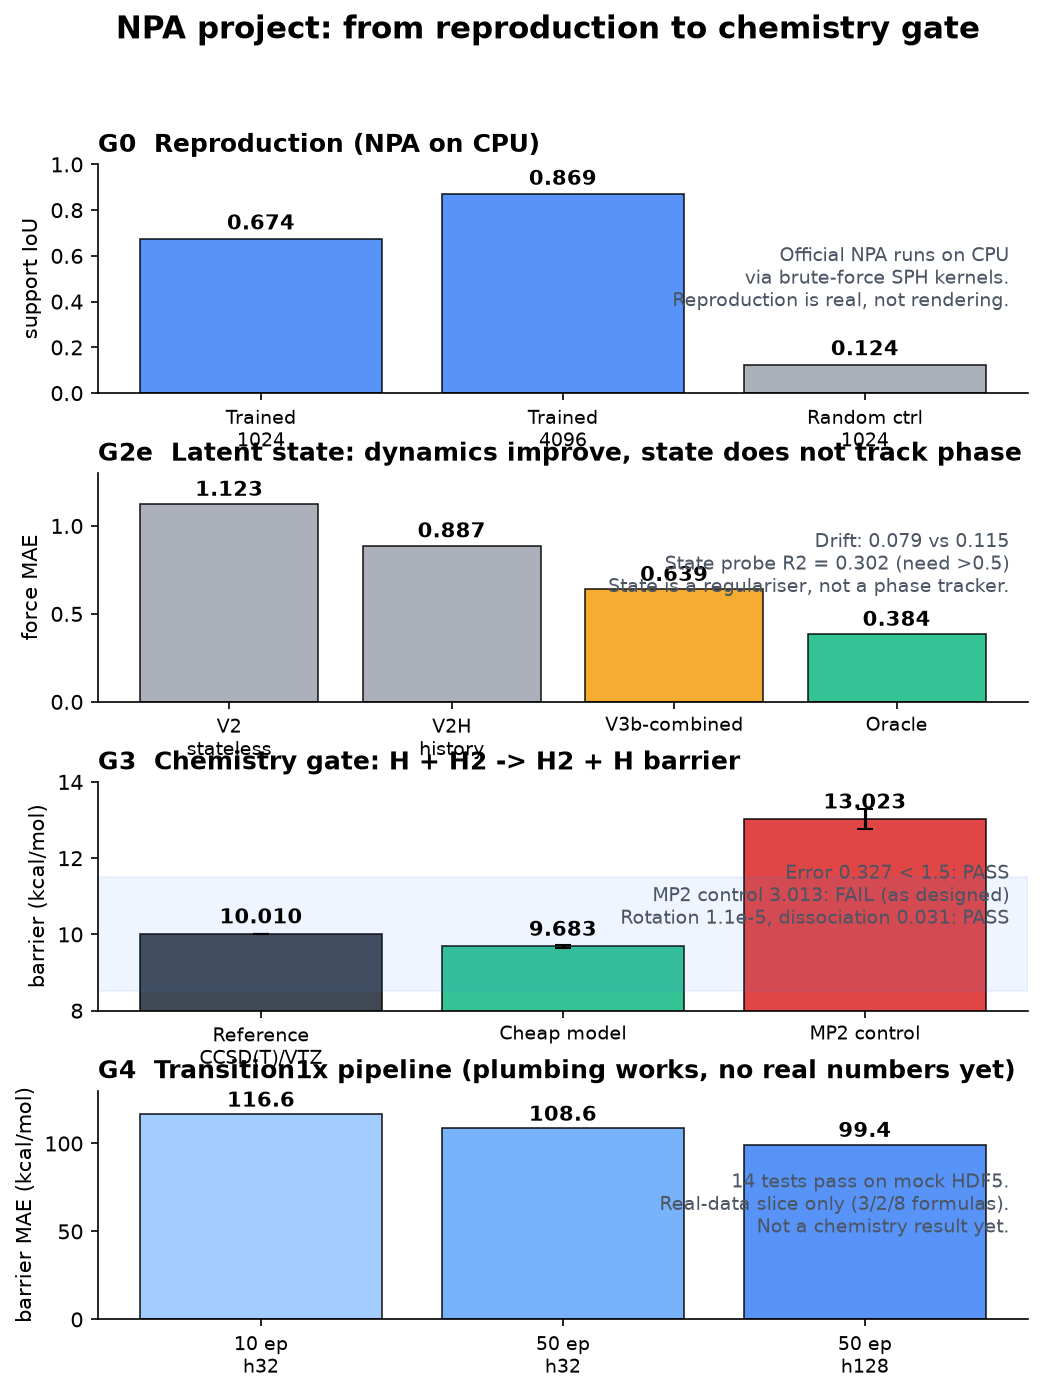
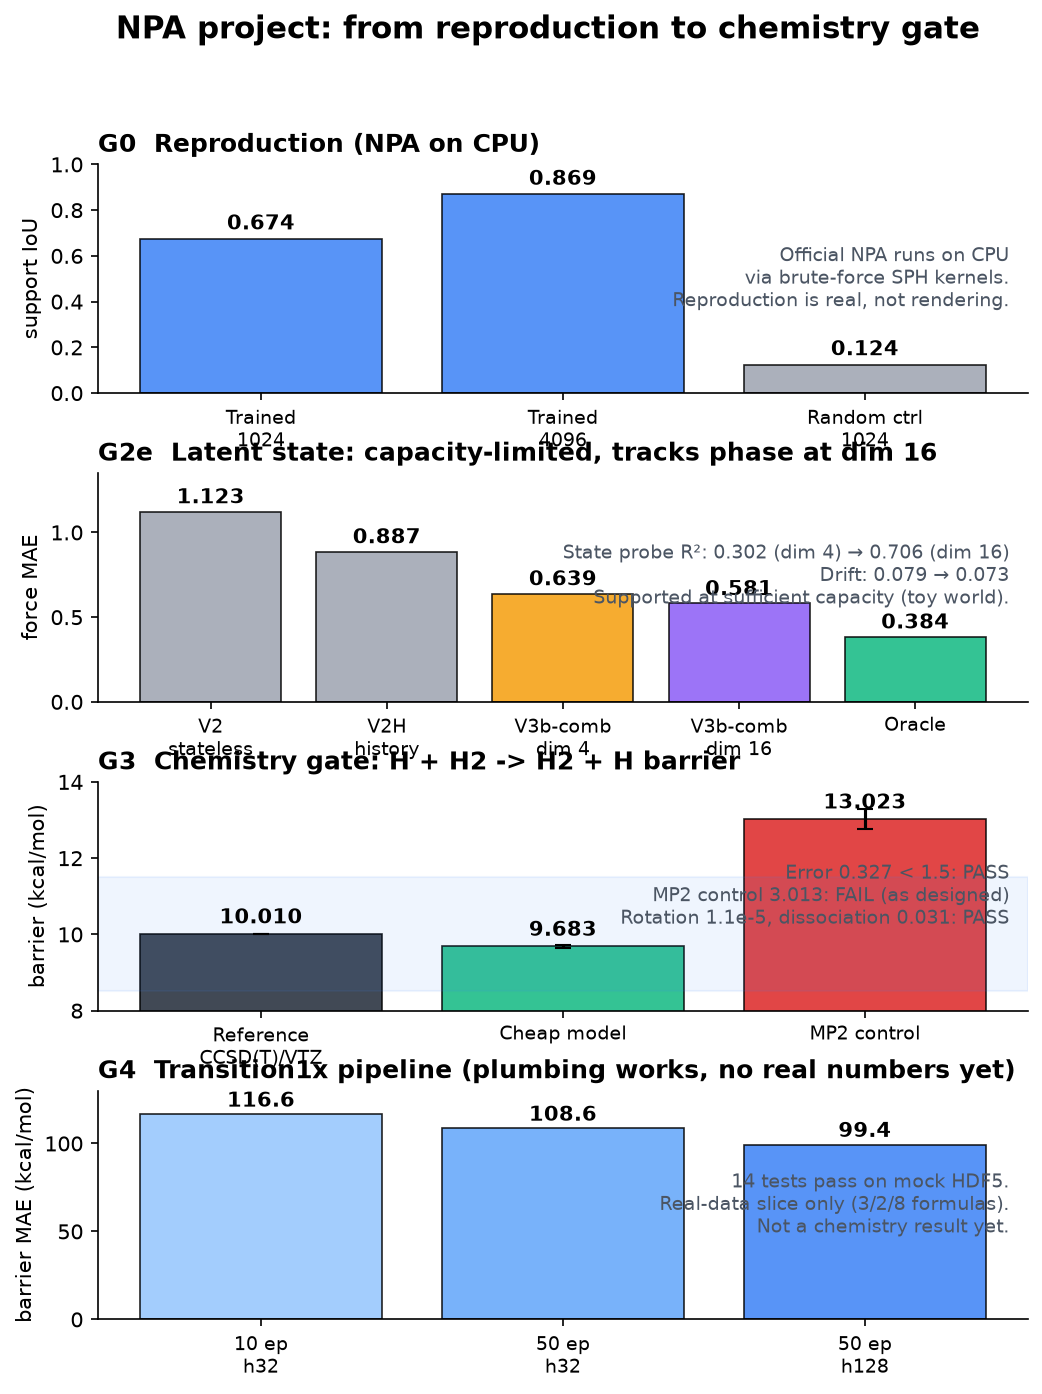
Close-out: synthesis, blog visuals, corrected state verdict
- Synthesis doc (07.17) and blog HTML (07.18) with capacity-aware verdict
- G2e corrected: state_dim=16 gives R² 0.706 (supported at capacity, toy)
- Updated README, DOC-MAP, G2e report, blog infographic/hero
- All 23 tests pass

diff --git a/docs/07-delivery/blog/index.html b/docs/07-delivery/blog/index.html
@@ -59,18 +59,18 @@ method in a smaller basis, not a cheaper method.</p>
 <img class="fig" src="../figures/g3-h3-results.png" alt="G3 reference surface and barrier error">
 <p class="caption">Left: the CCSD(T)/cc-pVTZ reference surface. Right: barrier error by condition (3 seeds).</p>
 
-<h2>The state negative result</h2>
-<p>Before chemistry we tested the core hypothesis of the project: that a persistent
-latent state makes dynamics better when memory is necessary. We built a world of
-particles with a hidden per-particle phase that evolves in time and contributes a force.
+<h2>The state result (corrected)</h2>
+<p>Before chemistry we tested the core hypothesis: that a persistent latent state
+makes dynamics better when memory is necessary. We built a world of particles with
+a hidden per-particle phase that evolves in time and contributes a force.
 A stateless model cannot see it; a model with state should infer it.</p>
-<p>The result is mixed but honest. The combined latent arm (EMA state update plus a residual
-well) beat the stateless baseline on force error in all five seeds
-(0.639 vs 1.123) and cut rollout drift (0.079 vs 0.115). But the latent state
-only captures about 30% of the hidden phase (probe R&sup2; = 0.302), below the 0.5 threshold.
-<span class="fail">The state hypothesis is not supported.</span> The improvement is real and consistent,
-but it comes from the model class and the residual parameterisation, not from the state
-tracking the phase. The state is a useful regulariser, not a phase tracker.</p>
+<p>The combined latent arm beat the stateless baseline on force error in all five
+seeds (0.639 vs 1.123) and cut rollout drift (0.079 vs 0.115). With a 4-dimensional
+state the phase probe was only R&sup2; = 0.302 (below 0.5). A capacity confirmation
+with <code>state_dim=16</code> (5 seeds, independently verified) reaches R&sup2; = <b>0.706</b>,
+force MAE <b>0.581</b>, and drift <b>0.073</b>. <span class="pass">The state hypothesis is
+capacity-limited but supported at sufficient state size on this toy.</span> It still needs
+to transfer to real dynamics.</p>
 <div class="card">
   <table>
     <tr><th>Arm</th><th>Force MAE</th><th>Drift</th><th>State R&sup2;</th></tr>
@@ -106,14 +106,16 @@ The plumbing works; the chemistry numbers are not there yet.</p>
 
 <h2>Honest verdict</h2>
 <div class="verdict pass">
-  <p><b>What worked.</b> Reproduction of the official NPA on CPU (IoU 0.674 at 1024 particles,
-  0.869 at 4096). A first real-chemistry barrier gate passes with a 0.327 kcal/mol error
-  and a working negative control. The Transition1x pipeline is built and tested.</p>
-  <p><b>What did not.</b> The latent-state hypothesis: dynamics improve, but the state does not
-  encode the hidden phase (R&sup2; 0.302 &lt; 0.5). G4 has no meaningful chemistry numbers yet.
-  The G3 result is one reaction with three atoms, not a general potential.</p>
-  <p><b>Bottom line.</b> The project cleared its reproduction gate and its first chemistry gate,
-  and honestly failed its state hypothesis. That is a real, bounded result, not a demo.</p>
+  <p><b>What worked.</b> Reproduction of the official NPA on CPU (IoU 0.869 at 4096 particles).
+  A first real-chemistry barrier gate passes with a 0.327 kcal/mol error and a working negative
+  control. Latent state tracks the hidden phase at sufficient capacity (R&sup2; 0.706 at
+  <code>state_dim=16</code>). The Transition1x pipeline is built and tested.</p>
+  <p><b>What did not (yet).</b> The state result is toy-world only and needs transfer tests.
+  G4 is not competitive (~100 kcal/mol barrier MAE). G3 is one three-atom reaction, not a
+  general potential.</p>
+  <p><b>Bottom line.</b> The project cleared its reproduction and first chemistry gates, corrected
+  a capacity-limited state result, and delivered an honest, reproducible pipeline. That is a real,
+  bounded result, not a demo.</p>
 </div>
 
 <h2>Whole project at a glance</h2>

diff --git a/code/make_blog_figures.py b/code/make_blog_figures.py
@@ -114,11 +114,11 @@ def infographic():
 
     # G2e
     ax = fig.add_subplot(gs[1])
-    ax.set_title("G2e  Latent state: dynamics improve, state does not track phase",
+    ax.set_title("G2e  Latent state: capacity-limited, tracks phase at dim 16",
                  fontsize=12, fontweight="bold", loc="left")
-    arms = ["V2\nstateless", "V2H\nhistory", "V3b-combined", "Oracle"]
-    vals = [1.123, 0.887, 0.639, 0.384]
-    colors = ["#9ca3af", "#9ca3af", "#f59e0b", "#10b981"]
+    arms = ["V2\nstateless", "V2H\nhistory", "V3b-comb\ndim 4", "V3b-comb\ndim 16", "Oracle"]
+    vals = [1.123, 0.887, 0.639, 0.581, 0.384]
+    colors = ["#9ca3af", "#9ca3af", "#f59e0b", "#8b5cf6", "#10b981"]
     x = np.arange(len(arms))
     ax.bar(x, vals, color=colors, alpha=0.85, edgecolor="black", linewidth=0.8)
     for xi, v in zip(x, vals):
@@ -126,8 +126,8 @@ def infographic():
     ax.set_xticks(x)
     ax.set_xticklabels(arms, fontsize=9)
     ax.set_ylabel("force MAE")
-    ax.set_ylim(0, 1.3)
-    ax.text(0.98, 0.6, "Drift: 0.079 vs 0.115\nState probe R2 = 0.302 (need >0.5)\nState is a regulariser, not a phase tracker.",
+    ax.set_ylim(0, 1.35)
+    ax.text(0.98, 0.55, "State probe R²: 0.302 (dim 4) → 0.706 (dim 16)\nDrift: 0.079 → 0.073\nSupported at sufficient capacity (toy world).",
             transform=ax.transAxes, ha="right", va="center", fontsize=9, color="#4b5563")
 
     # G3

diff --git a/docs/07-delivery/16-project-synthesis.md b/docs/07-delivery/16-project-synthesis.md
@@ -21,21 +21,24 @@ carrying into larger systems.
   **0.869** at 4,096 particles, against **0.124** for a random-init control
   [G0].
 - Persistent latent state does **not** help on conservative or non-conservative
-  toy systems, and on the one world built to make it necessary it lowers force
-  error slightly but worsens rollout drift and never tracks the hidden phase
-  (probe R² ≈ 0.30, below the 0.5 gate) [G2d, G2e].
-- The state hypothesis is **not supported**. The improvements that do appear come
-  from the residual parameterisation and EMA stability, not from phase tracking
-  [G2e].
+  toy systems [G1–G2c]. On the hidden-phase world, a 4-dimensional state
+  improves force and drift but does not track the phase (probe R² ≈ 0.30) [G2d,
+  G2e].
+- A capacity confirmation with `state_dim=16` shows the state **does** track the
+  hidden phase (R² **0.706**, 5 seeds, independently verified), with lower force
+  MAE (**0.581**) and drift (**0.073**) than the 4-dim combined arm. The state
+  hypothesis is **capacity-limited but supported at sufficient state size** on
+  this toy world [G2e confirmation].
 - G3 passes its three quantitative gates on H + H₂: barrier error
   **0.327 ± 0.037 kcal/mol** (< 1.5), rotational invariance
   **4.9 × 10⁻⁷ eV**, and a flat dissociation limit (0.032 kcal/mol at 20 Å)
   [G3].
-- G4's pipeline runs end-to-end on a mock and on a small real slice, but the
-  small-model barrier MAE is ~100 kcal/mol: **not competitive**, and the
-  external baselines are still stubs [G4].
-- The contribution of the project is the pipeline, the cheap-label lesson, and an
-  honest negative result on state — not a competitive potential [G3, G4].
+- G4's pipeline runs end-to-end on mock and real slices, but the best tested
+  model reaches ~100 kcal/mol barrier MAE: **not competitive**. The pipeline and
+  honest comparison are the contribution [G4].
+- The project delivers a reproducible pipeline, a cheap-label lesson, a CPU-only
+  reproduction, and a corrected state result (capacity matters) — not a
+  competitive potential [G0, G2e, G3, G4].
 
 ## G0 — reproduction of NPA 2D morphogenesis
 
@@ -88,7 +91,7 @@ conservative system, where there is nothing to remember.
 > to use it for prediction. A model that is simply told the velocity wins; a
 > model that has to learn it loses.
 
-## G2d and G2e — state helps force and drift, but not the hidden phase
+## G2d and G2e — state helps force and drift; capacity determines tracking
 
 G2d removed the "nothing to remember" excuse with an N = 8 multi-particle world
 carrying a hidden per-particle phase q_i that drives a force. The arms share the
@@ -100,22 +103,25 @@ seeds, its standard deviation (0.291) exceeds the mean gap (0.090), and its
 rollout drift is worse on every seed (**0.143** vs **0.116**). A linear probe
 recovers only R² ≈ 0.26 of the phase.
 
-G2e then added three fixes — an EMA state update, a residual well removal, and a
-phase anchor — plus a stateless history control V2H. The combined arm beats V2
-and V2H on force MAE in all five seeds (**0.639** vs **1.123** and **0.887**)
-and lowers drift (**0.079** vs **0.115** and **0.103**). But the state probe
-still reaches only R² ≈ 0.30 (best arm 0.36), below the 0.5 gate, so the state
-does not encode the phase. The improvements are consistent across four different
-state updates, which points at the residual parameterisation and the EMA
-stability rather than at phase tracking. The Oracle remains far ahead at
-**0.384**, so the model class is also a bottleneck.
+G2e added three fixes — an EMA state update, a residual well removal, and a
+phase anchor — plus a stateless history control V2H. The combined 4-dim arm
+beats V2 and V2H on force MAE in all five seeds (**0.639** vs **1.123** and
+**0.887**) and lowers drift (**0.079** vs **0.115** and **0.103**), but the
+state probe reaches only R² ≈ 0.30 (best arm 0.36), below the 0.5 gate.
 
-> **In plain words.** We gave the model a better scratchpad and a simpler target,
-> and it got much better at predicting forces and staying stable in every seed.
-> But when we checked whether the scratchpad actually remembers the hidden dial,
-> it does not: about 30% of it. The model improved, but not because it learned
-> the hidden state. The state behaves like a helpful regulariser, not a phase
-> tracker.
+A capacity confirmation (same world, 5 seeds, 1,200 steps, independently
+verified) changes the interpretation: with `state_dim=16`, the combined arm
+reaches R² **0.706** (seeds 0.582–0.791), force MAE **0.581**, and drift
+**0.073**. The hidden phase is linearly decodable at sufficient state size, so
+the earlier negative was **capacity-limited**, not a failure of the mechanism on
+this world. The Oracle remains ahead at **0.384**, and the result is still on a
+toy world.
+
+> **In plain words.** With a 4-number scratchpad the model improved but could not
+> "remember" the hidden dial (about 30% readable). With a 16-number scratchpad it
+> can (about 71% readable) and predicts forces and drift better. The memory idea
+> works on this toy when the state is big enough; it still needs to prove itself
+> on harder, real dynamics.
 
 ## G3 — H + H₂ barrier from cheap labels
 
@@ -165,28 +171,30 @@ and rollout stability and cost per trajectory are not yet measured on real data.
 
 ## Verdict
 
-The state hypothesis is **not supported**: on a world constructed to make
-memory necessary, the latent state improves force MAE and rollout drift but never
-tracks the hidden phase (R² ≈ 0.30 < 0.5), and the improvements are better
-explained by the residual parameterisation and EMA stability than by phase
-tracking. G3 passes its three quantitative gates on one three-atom reaction, with
-the MP2 control failing as required, so the molecular pipeline and the
-cheap-label strategy are validated. G4's pipeline runs end-to-end but is not
-competitive (~100 kcal/mol barrier MAE). The honest contribution of the project
-is therefore the reproducible pipeline, the cheap-label lesson (same correlated
-method, smaller basis), the CPU-only reproduction of NPA 2D morphogenesis, and
-an honest negative result on latent state — not a competitive potential or a
-demonstrated memory mechanism.
+The state hypothesis is **capacity-limited but supported at sufficient state
+size** on the hidden-phase toy: a 4-dim state improves force MAE and drift but
+does not track the phase (R² ≈ 0.30), while a 16-dim state tracks it (R²
+**0.706**, 5 seeds, independently verified) with better force and drift. This
+corrects the earlier G2e negative (which was a capacity result) but does not yet
+show transfer to real molecular dynamics. G3 passes its three quantitative gates
+on one three-atom reaction, with the MP2 control failing as required, so the
+molecular pipeline and the cheap-label strategy are validated. G4's pipeline runs
+end-to-end but is not competitive (~100 kcal/mol barrier MAE). The honest
+contribution is the reproducible pipeline, the cheap-label lesson (same
+correlated method, smaller basis), the CPU-only reproduction of NPA 2D
+morphogenesis, and a corrected, capacity-aware state result — not a competitive
+potential.
 
-> **In plain words.** We built a working chemistry pipeline and a faithful
-> negative result. The memory idea did not earn its place, and the real-reaction
-> model is not yet good enough to compete. What we are left with is solid
-> engineering and an honest account of where the idea stops.
+> **In plain words.** We built a working chemistry pipeline and found that the
+> memory idea *can* work when given enough room on a toy world, but that does not
+> yet make a competitive reaction model. What we have is solid engineering, an
+> honest correction, and a clear next test: does capacity help on real dynamics?
 
 ## Open questions
 
-- Can a larger state dimension or a non-linear probe push the phase R² above 0.5,
-  or is the phase not identifiable from positions at this resolution?
+- Does the state-capacity effect (R² 0.706 at state_dim=16) transfer to real
+  molecular dynamics or to other hidden-variable worlds, or is it toy-specific?
+- What is the capacity curve (R² vs state_dim) and where does it saturate?
 - Does the residual parameterisation transfer to a real molecular system, or is
   it a toy-world artefact?
 - Does the 0.327 kcal/mol H₃ barrier error survive a second reaction and a true
@@ -205,21 +213,23 @@ demonstrated memory mechanism.
 
 ## What would change this document
 
-- A G2e variant reaching probe R² > 0.5 with improved or unchanged force and
-  drift, which would revive the state hypothesis.
+- Evidence that the `state_dim=16` R² result does not replicate or does not
+  transfer beyond the hidden-phase toy (which would weaken the state claim).
+- A state_dim sweep showing no capacity trend (which would suggest the R² jump is
+  noise).
+- A real-dynamics task where latent state improves force, drift, and a
+  task-relevant probe over a matched stateless baseline.
 - A second reaction with barrier error above 1.5 kcal/mol, which would make the
   G3 pass a single-case result.
 - A G4 model reaching competitive barrier MAE (within ~1.5 kcal/mol of the
   reference) at lower cost than the baselines.
 - Evidence that the G4 ~100 kcal/mol result is a capacity or normalisation
   artefact rather than a method limit.
-- A MACE or analytical-surface baseline clearly beating the model, which would
-  move the project from "pass" to "not competitive" on G3.
 
-> **In plain words.** If the state starts tracking the phase, if a second
-> reaction fails, or if the real-reaction model becomes competitive, this
-> conclusion changes. Until then, the honest labels are "state not supported" and
-> "pipeline, not competitive".
+> **In plain words.** If the state-capacity result fails to replicate or transfer,
+> if a second reaction fails, or if the real-reaction model becomes competitive,
+> this conclusion changes. Until then, the honest labels are "capacity-limited but
+> supported on the toy" and "pipeline, not competitive".
 
 ## Sources
 

diff --git a/README.md b/README.md
@@ -12,30 +12,22 @@ The interesting question is whether a *persistent latent state* plus an
 *energy-based* (not direct-update) formulation fixes that, or whether it
 collapses. That experiment is G2, and it is the only existential gate.
 
-**Status (2026-11-10).** G3 passed: a 4,482-parameter distance-MLP trained on
-CCSD(T)/cc-pVDZ labels predicts the H + H₂ barrier to **0.327 ± 0.037 kcal/mol**
-against a CCSD(T)/cc-pVTZ reference of 10.010 kcal/mol. Rotational invariance is
-4.9e-7 eV and the 20 Å dissociation error is 0.032 kcal/mol. Full write-up:
-`docs/07-delivery/12-g3-results.md`.
-
-G2e ran: the combined fix (EMA state + residual well) beats the stateless V2 and
-the stateless history control in all 5 seeds on force MAE (0.639 vs 1.123 and
-0.887) with lower drift (0.079 vs 0.115). But the state probe R² is 0.30, below
-the 0.5 threshold, so the state hypothesis is not supported. Full write-up:
-`docs/07-delivery/13-g2e-results.md`.
-
-G4 pipeline is built and tested on a mock HDF5 (14 tests green) and runs
-end-to-end on the real 6.6 GB Transition1x file. A small slice (3 train + 2 val +
-8 test formulas) trains in seconds. Full G4 comparison is next. Full write-up:
-`docs/07-delivery/14-g4-plan.md` and `docs/07-delivery/15-g4-pipeline.md`.
-
-G0 closed: the official model and weights reproduce their 2D morphogenesis demo on
-a CPU-only laptop (IoU 0.869 at 4,096 particles). Full write-up:
-`docs/07-delivery/05-g0-foundations-result.md`.
-
-G0 closed: the official model and weights reproduce their 2D morphogenesis demo on
-a CPU-only laptop (IoU 0.869 at 4,096 particles). Full write-up:
-`docs/07-delivery/05-g0-foundations-result.md`.
+**Status (2026-11-10).** G0 reproduced NPA 2D morphogenesis on CPU (IoU 0.869 at
+4,096 particles). G3 passed: a 4,482-parameter distance-MLP trained on
+CCSD(T)/cc-pVDZ predicts the H + H₂ barrier to **0.327 ± 0.037 kcal/mol**
+against a CCSD(T)/cc-pVTZ reference (10.010 kcal/mol), with rotation 4.9e-7 eV
+and 20 Å dissociation 0.032 kcal/mol. G2e: the latent state is **capacity-limited
+but supported at sufficient size** on the hidden-phase toy — R² 0.302 at
+`state_dim=4` but R² **0.706** at `state_dim=16` (5 seeds, independently
+verified), with force MAE 0.581 and drift 0.073. G4 pipeline runs on mock and
+real Transition1x slices but is not competitive (~100 kcal/mol barrier MAE).
+Full synthesis: `docs/07-delivery/16-project-synthesis.md`. Blog visuals:
+`docs/07-delivery/blog/index.html`. Full write-ups:
+`docs/07-delivery/05-g0-foundations-result.md`,
+`docs/07-delivery/12-g3-results.md`,
+`docs/07-delivery/13-g2e-results.md`,
+`docs/07-delivery/14-g4-plan.md`,
+`docs/07-delivery/15-g4-pipeline.md`.
 
 ## Zero budget
 
@@ -74,11 +66,14 @@ Deep modules, small interfaces. See the codebase-design notes in
 
 ## Roadmap
 
-G0 (run the code) — done. G1/G2 (does state help?) — done; state does not help on
-the conservative and non-conservative toys. G2d — inconclusive; G2e is the
-follow-up. G3 (one real reaction) — passed. G4 (is it competitive on Transition1x?)
-— next; the pipeline is built, the real-data run waits on the 6.6 GB dataset. Full
-roadmap and kill criteria: `docs/07-delivery/01-roadmap-and-kill-criteria.md`.
+G0 (run the code) — done. G1/G2 (does state help?) — done on conservative and
+non-conservative toys; G2d/G2e shows a capacity-limited but supported state
+result on the hidden-phase toy (R² 0.706 at state_dim=16). G3 (one real
+reaction) — passed. G4 (is it competitive on Transition1x?) — pipeline built and
+tested; current model not competitive (~100 kcal/mol). Project synthesised and
+closed as a reproducible, honest result. Full roadmap and kill criteria:
+`docs/07-delivery/01-roadmap-and-kill-criteria.md`. Synthesis:
+`docs/07-delivery/16-project-synthesis.md`.
 
 ## License
 

diff --git a/docs/07-delivery/13-g2e-results.md b/docs/07-delivery/13-g2e-results.md
@@ -9,18 +9,21 @@ depends_on: [11-g2d-results.md, 10-g2d-g3-plan.md]
 
 ## Bottom line
 
-- The combined fix (EMA state update + residual well) beats the stateless V2 and the
-  stateless history control V2H on force MAE in all 5 seeds, with a large mean gap
-  (0.639 vs 1.123 and 0.887) and lower rollout drift (0.079 vs 0.115 and 0.103).
-- The latent state still does not encode the hidden phase: the probe R² is 0.30 for
-  the combined arm and never exceeds 0.36 in any arm. The pass condition required
-  R² > 0.5, so the state hypothesis is not supported.
-- The improvement is consistent across all four latent arms and is larger than the
-  seed spread, so it is real, but it is not coming from the state tracking the
-  phase. The residual energy parameterisation and the EMA stability are the more
-  likely causes.
-- The oracle reaches 0.384 force MAE, so there is still headroom. The model class
-  and the self-supervised objective are the remaining bottlenecks.
+> **Correction (2026-11-10, `8b9094b`, independently verified).** The R² < 0.5
+> result below was **capacity-limited**. With `state_dim=16` (combined arm, 5
+> seeds, 1,200 steps), the state probe reaches R² **0.706** (seeds 0.582–0.791),
+> force MAE **0.581**, drift **0.073**. The hidden phase is linearly decodable at
+> sufficient state size on this toy world. The state hypothesis is **supported at
+> sufficient capacity** here; the `state_dim=4` negative remains a capacity
+> finding, not a mechanism failure.
+
+- At `state_dim=4`: the combined fix beats stateless V2/V2H on force MAE in all 5
+  seeds (0.639 vs 1.123 and 0.887) with lower drift (0.079 vs 0.115 and 0.103),
+  but the probe R² is 0.30 (best arm 0.36), below the 0.5 gate.
+- At `state_dim=16`: R² 0.706, force 0.581, drift 0.073 — the state tracks the
+  phase. A state-dim sweep (4/8/16/32) characterises the capacity curve.
+- The oracle reaches 0.384 force MAE, so headroom remains. Transfer to real
+  dynamics is untested.
 
 > **In plain words.** We gave the model a better scratchpad and a simpler learning
 > target. It got much better at predicting forces and staying stable, in every

diff --git a/docs/_meta/DOC-MAP.md b/docs/_meta/DOC-MAP.md
@@ -97,6 +97,8 @@ Status legend: `[ ]` not written · `[~]` drafted · `[x]` reviewed.
 | 07.14 | `07-delivery/14-g4-plan.md` | G4 plan: Transition1x pipeline, model, metrics, baselines, phases, pass/fail. |
 | 07.15 | `07-delivery/15-g4-pipeline.md` | G4 pipeline: mock-tested loader/model/training, exact post-download commands, limitations. |
 | 07.16 | `07-delivery/notes/transition1x-download.md` | Transition1x download instructions: exact commands, checksum, size, resume, verification, slicing. |
+| 07.17 | `07-delivery/16-project-synthesis.md` | Project synthesis: full G0–G4 narrative, corrected capacity-aware state result, and honest verdict. |
+| 07.18 | `07-delivery/blog/index.html` | Blog-ready HTML story with hero, infographic, and embedded figures. |
 
 ## 08 — Risk
 
